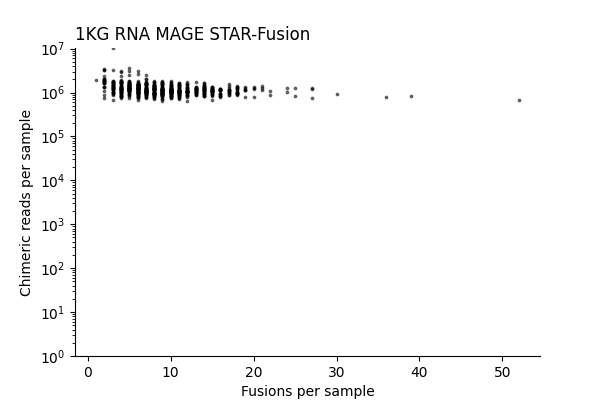
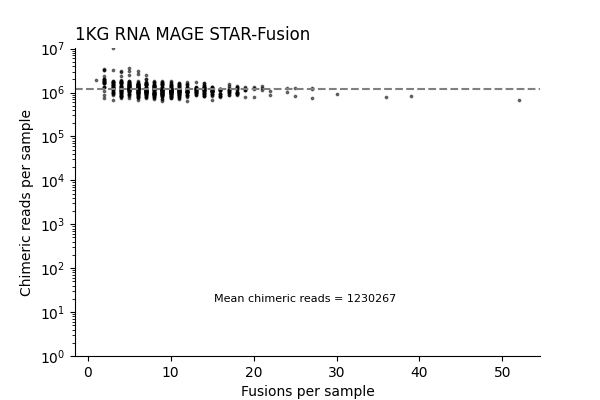
results: 1kg and pcawg chimeric read count label mean

Changed region(s): [[0.33, 0.21, 0.9, 0.24], [0.36, 0.72, 0.66, 0.78], [0.12, 0.21, 0.3, 0.24]]

diff --git a/results/2026_09-1kg_rna-analysis/run.py b/results/2026_09-1kg_rna-analysis/run.py
@@ -177,9 +177,12 @@ def main():
     df_chimeric_counts_sub = df_chimeric_counts[mask]
     x = df_fusions_per_sample_sub['fusion_count'].values
     y = df_chimeric_counts_sub['chimeric_count'].values
+    mean_y = y.mean()
     ax.scatter(x, y, color='black',s=3, alpha = 0.5)
     ax.spines['top'].set_visible(False)
     ax.spines['right'].set_visible(False)
+    ax.axhline(mean_y,color='gray',linestyle='--')
+    ax.annotate(f"Mean chimeric reads = {round(mean_y)}", transform=ax.transAxes, xy=(0.3, 0.2), xycoords='axes fraction', fontsize=8, color='black', verticalalignment='top')
     ax.set_title('1KG RNA MAGE STAR-Fusion', loc='left')
     ax.set_xlabel('Fusions per sample')
     ax.set_ylabel('Chimeric reads per sample')

diff --git a/results/2026_10-star_fusion-pcawg_rna-analysis/run.py b/results/2026_10-star_fusion-pcawg_rna-analysis/run.py
@@ -173,7 +173,10 @@ def main():
     df_chimeric_counts_sub = df_chimeric_counts[mask]
     x = df_fusions_per_sample_sub['fusion_count'].values
     y = df_chimeric_counts_sub['chimeric_count'].values
+    mean_y = y.mean()
     ax.scatter(x, y, color='black',s=3, alpha = 0.5)
+    ax.axhline(mean_y,color='gray',linestyle='--')
+    ax.annotate(f"Mean chimeric reads = {round(mean_y)}", transform=ax.transAxes, xy=(0.3, 0.2), xycoords='axes fraction', fontsize=8, color='black', verticalalignment='top')
     ax.spines['top'].set_visible(False)
     ax.spines['right'].set_visible(False)
     ax.set_title('PCAWG RNA STAR-Fusion', loc='left')
